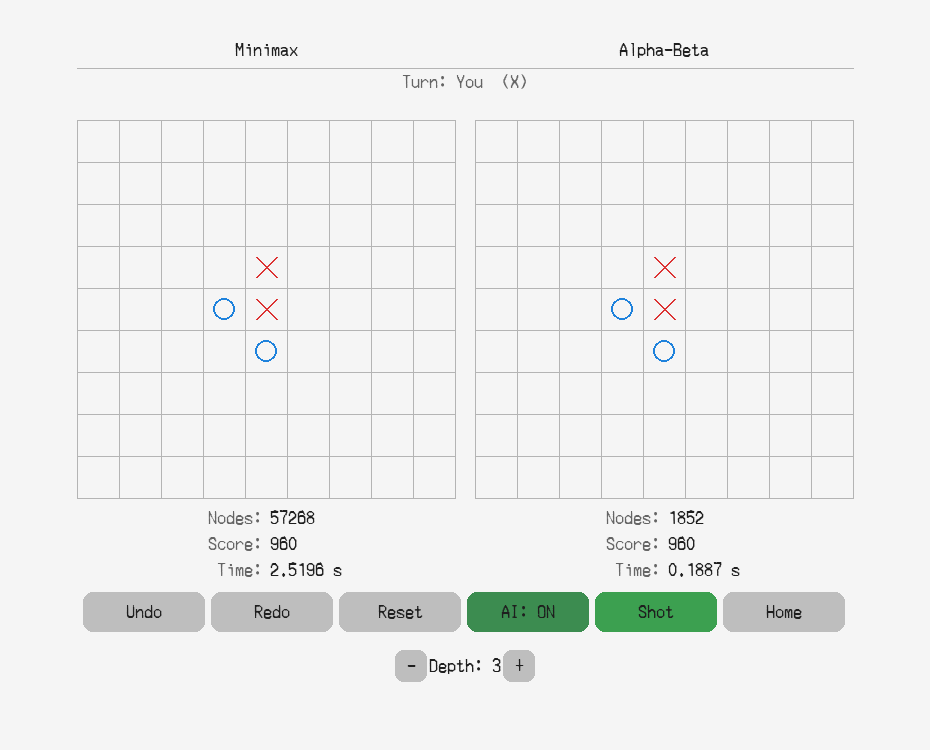
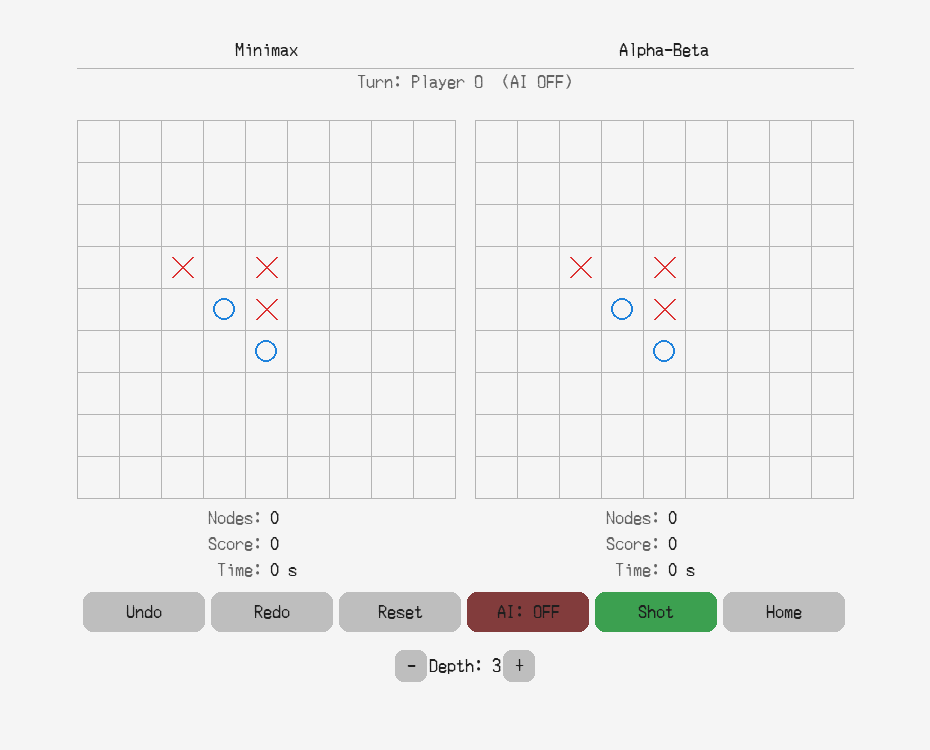
add readme

diff --git a/README.md b/README.md
@@ -1,0 +1,46 @@
+# XOGame
+
+Trò chơi XO (Caro 9x9) tích hợp AI với các thuật toán **Minimax** và **Alpha-Beta Pruning**.
+
+## Yêu cầu
+- Python 3.10+
+
+## Cài đặt
+
+Clone project:
+
+```bash
+git clone https://github.com/taclna/XOGame.git
+cd XOGame
+```
+
+Cài thư viện cần thiết:
+
+```bash
+pip install -r requirements.txt
+```
+
+## Chạy chương trình
+
+```bash
+python main.py
+```
+
+## Cấu trúc thư mục
+
+```bash
+XOGame/
+│── ai/            # Thuật toán AI
+│── core/          # Logic trò chơi
+│── ui/            # Giao diện
+│── assets/        # Hình ảnh, tài nguyên
+│── screenshots/   # Ảnh thực nghiệm
+│── main.py        # File chạy chính
+```
+
+## Chức năng
+- Chơi XO trên bàn cờ 9x9
+- Chế độ Player vs AI
+- Minimax / Alpha-Beta
+- Đánh giá trạng thái bàn cờ
+- Hỗ trợ nhiều độ sâu tìm kiếm
